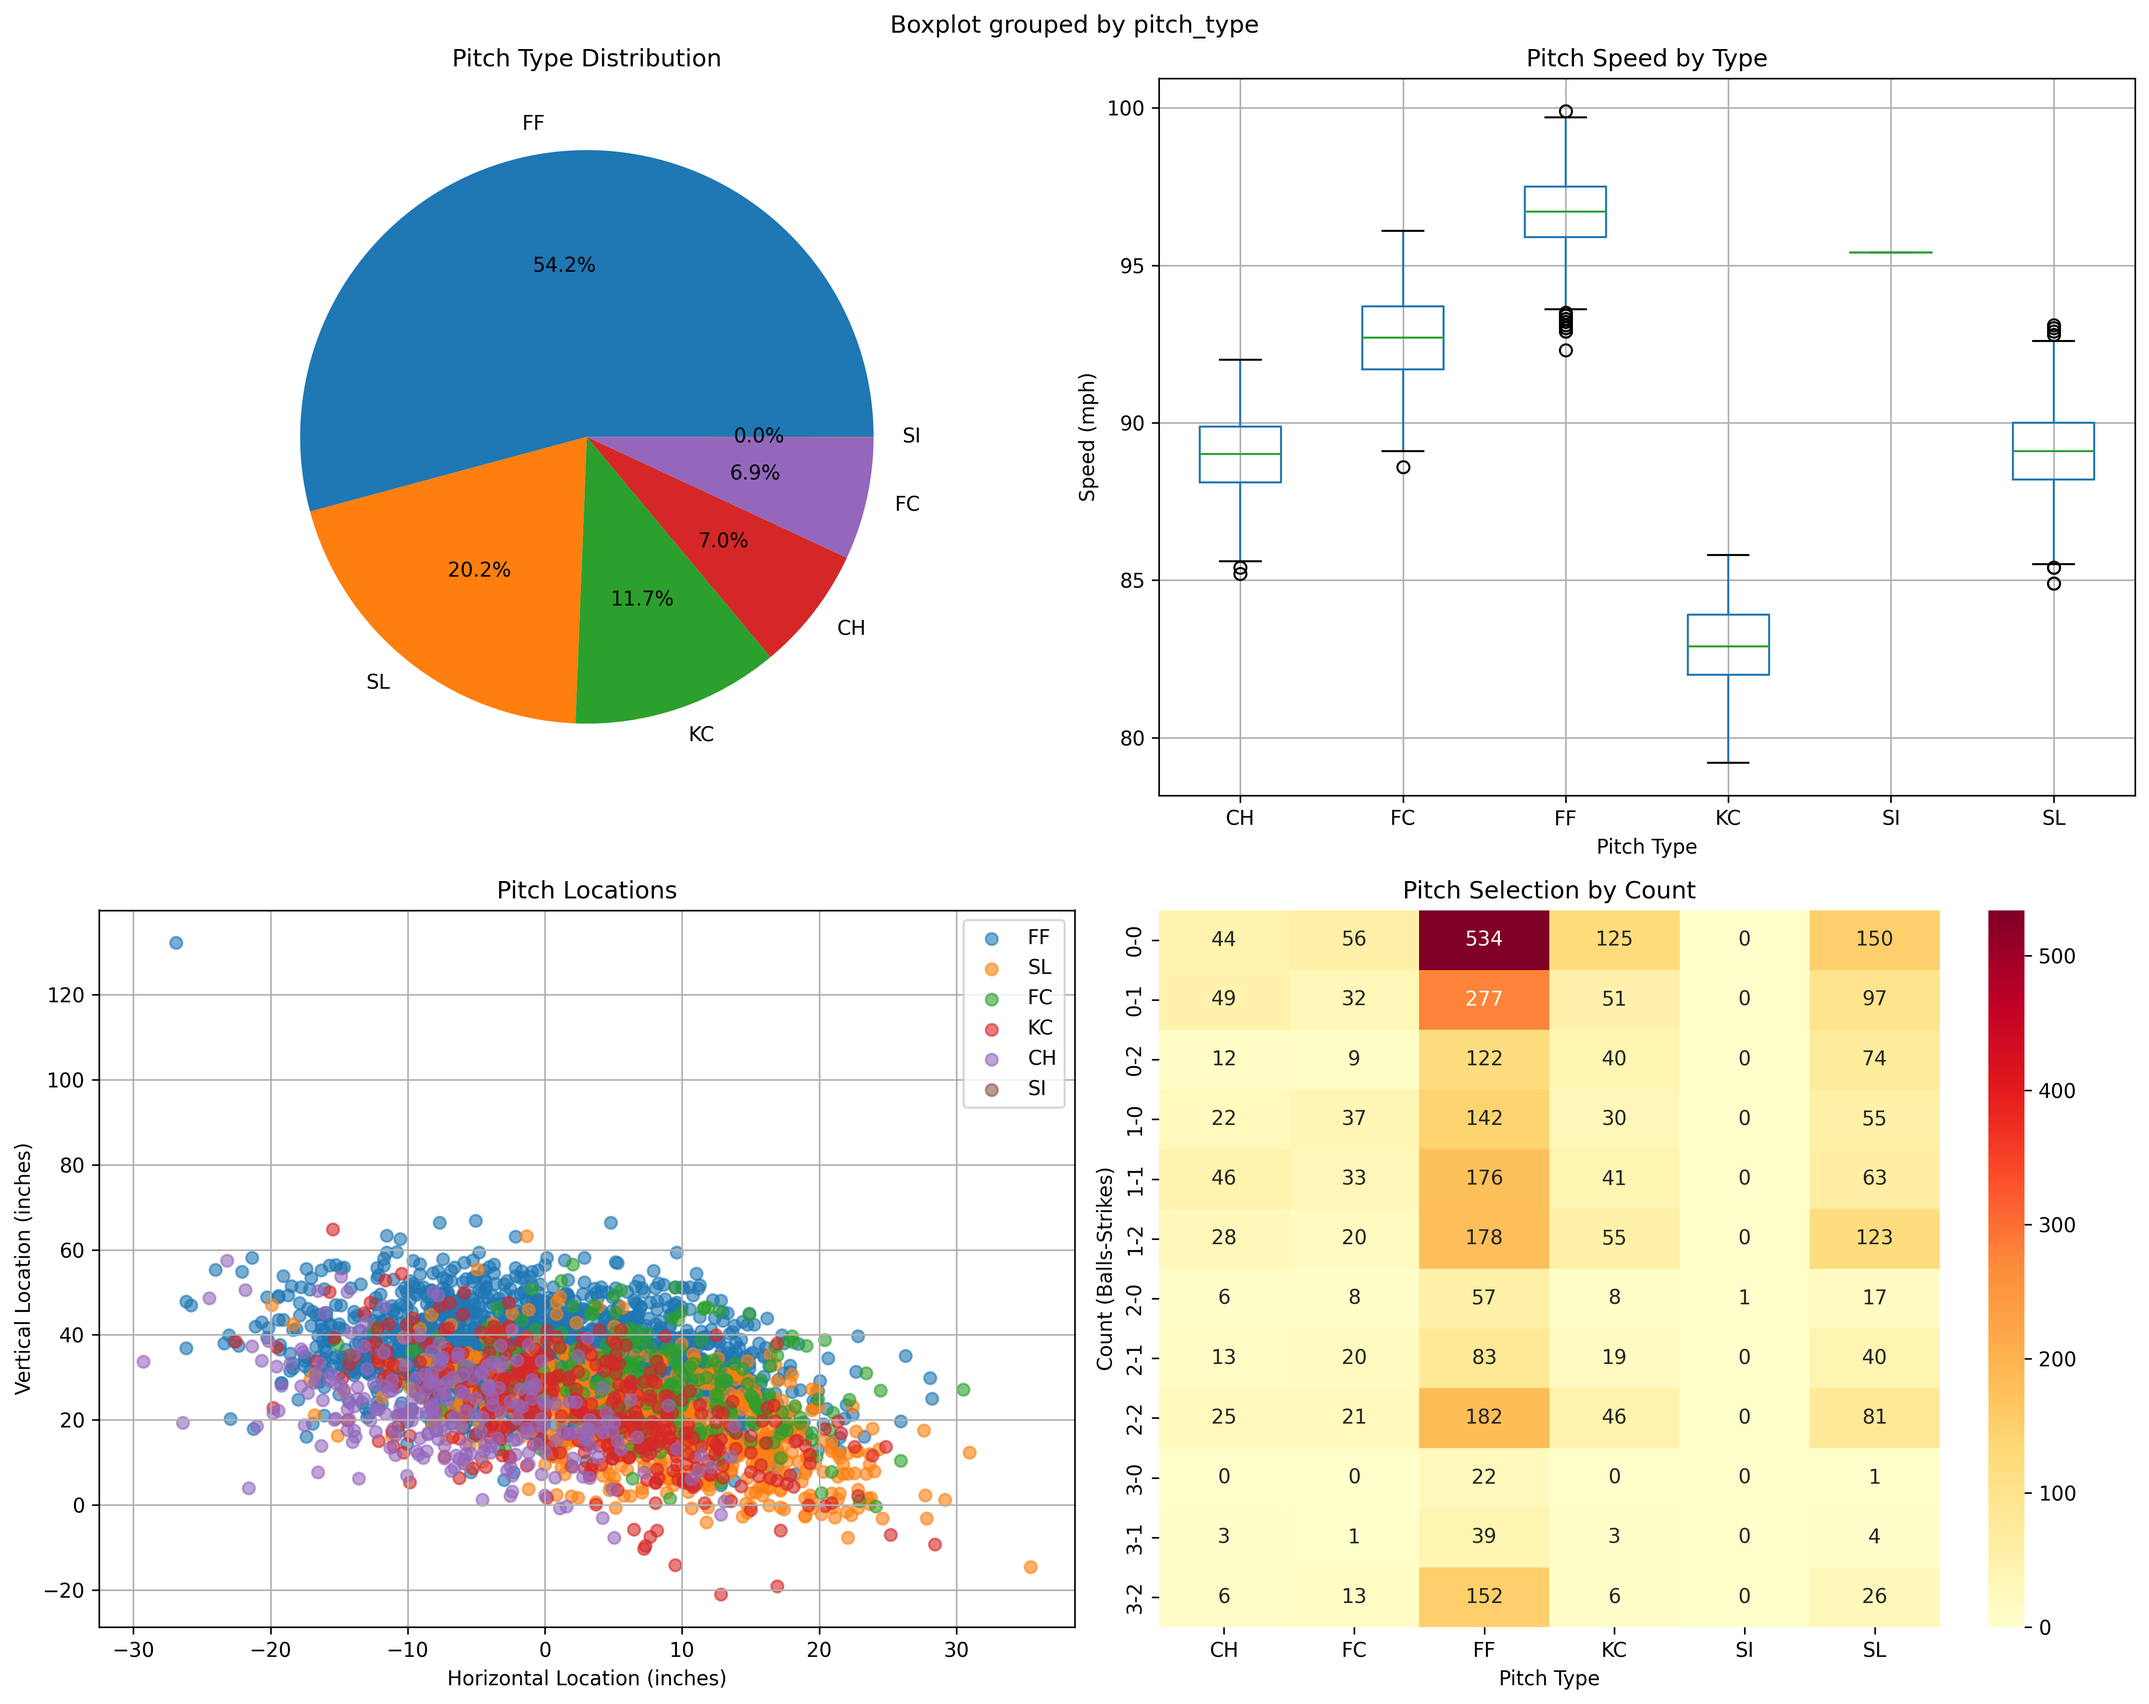
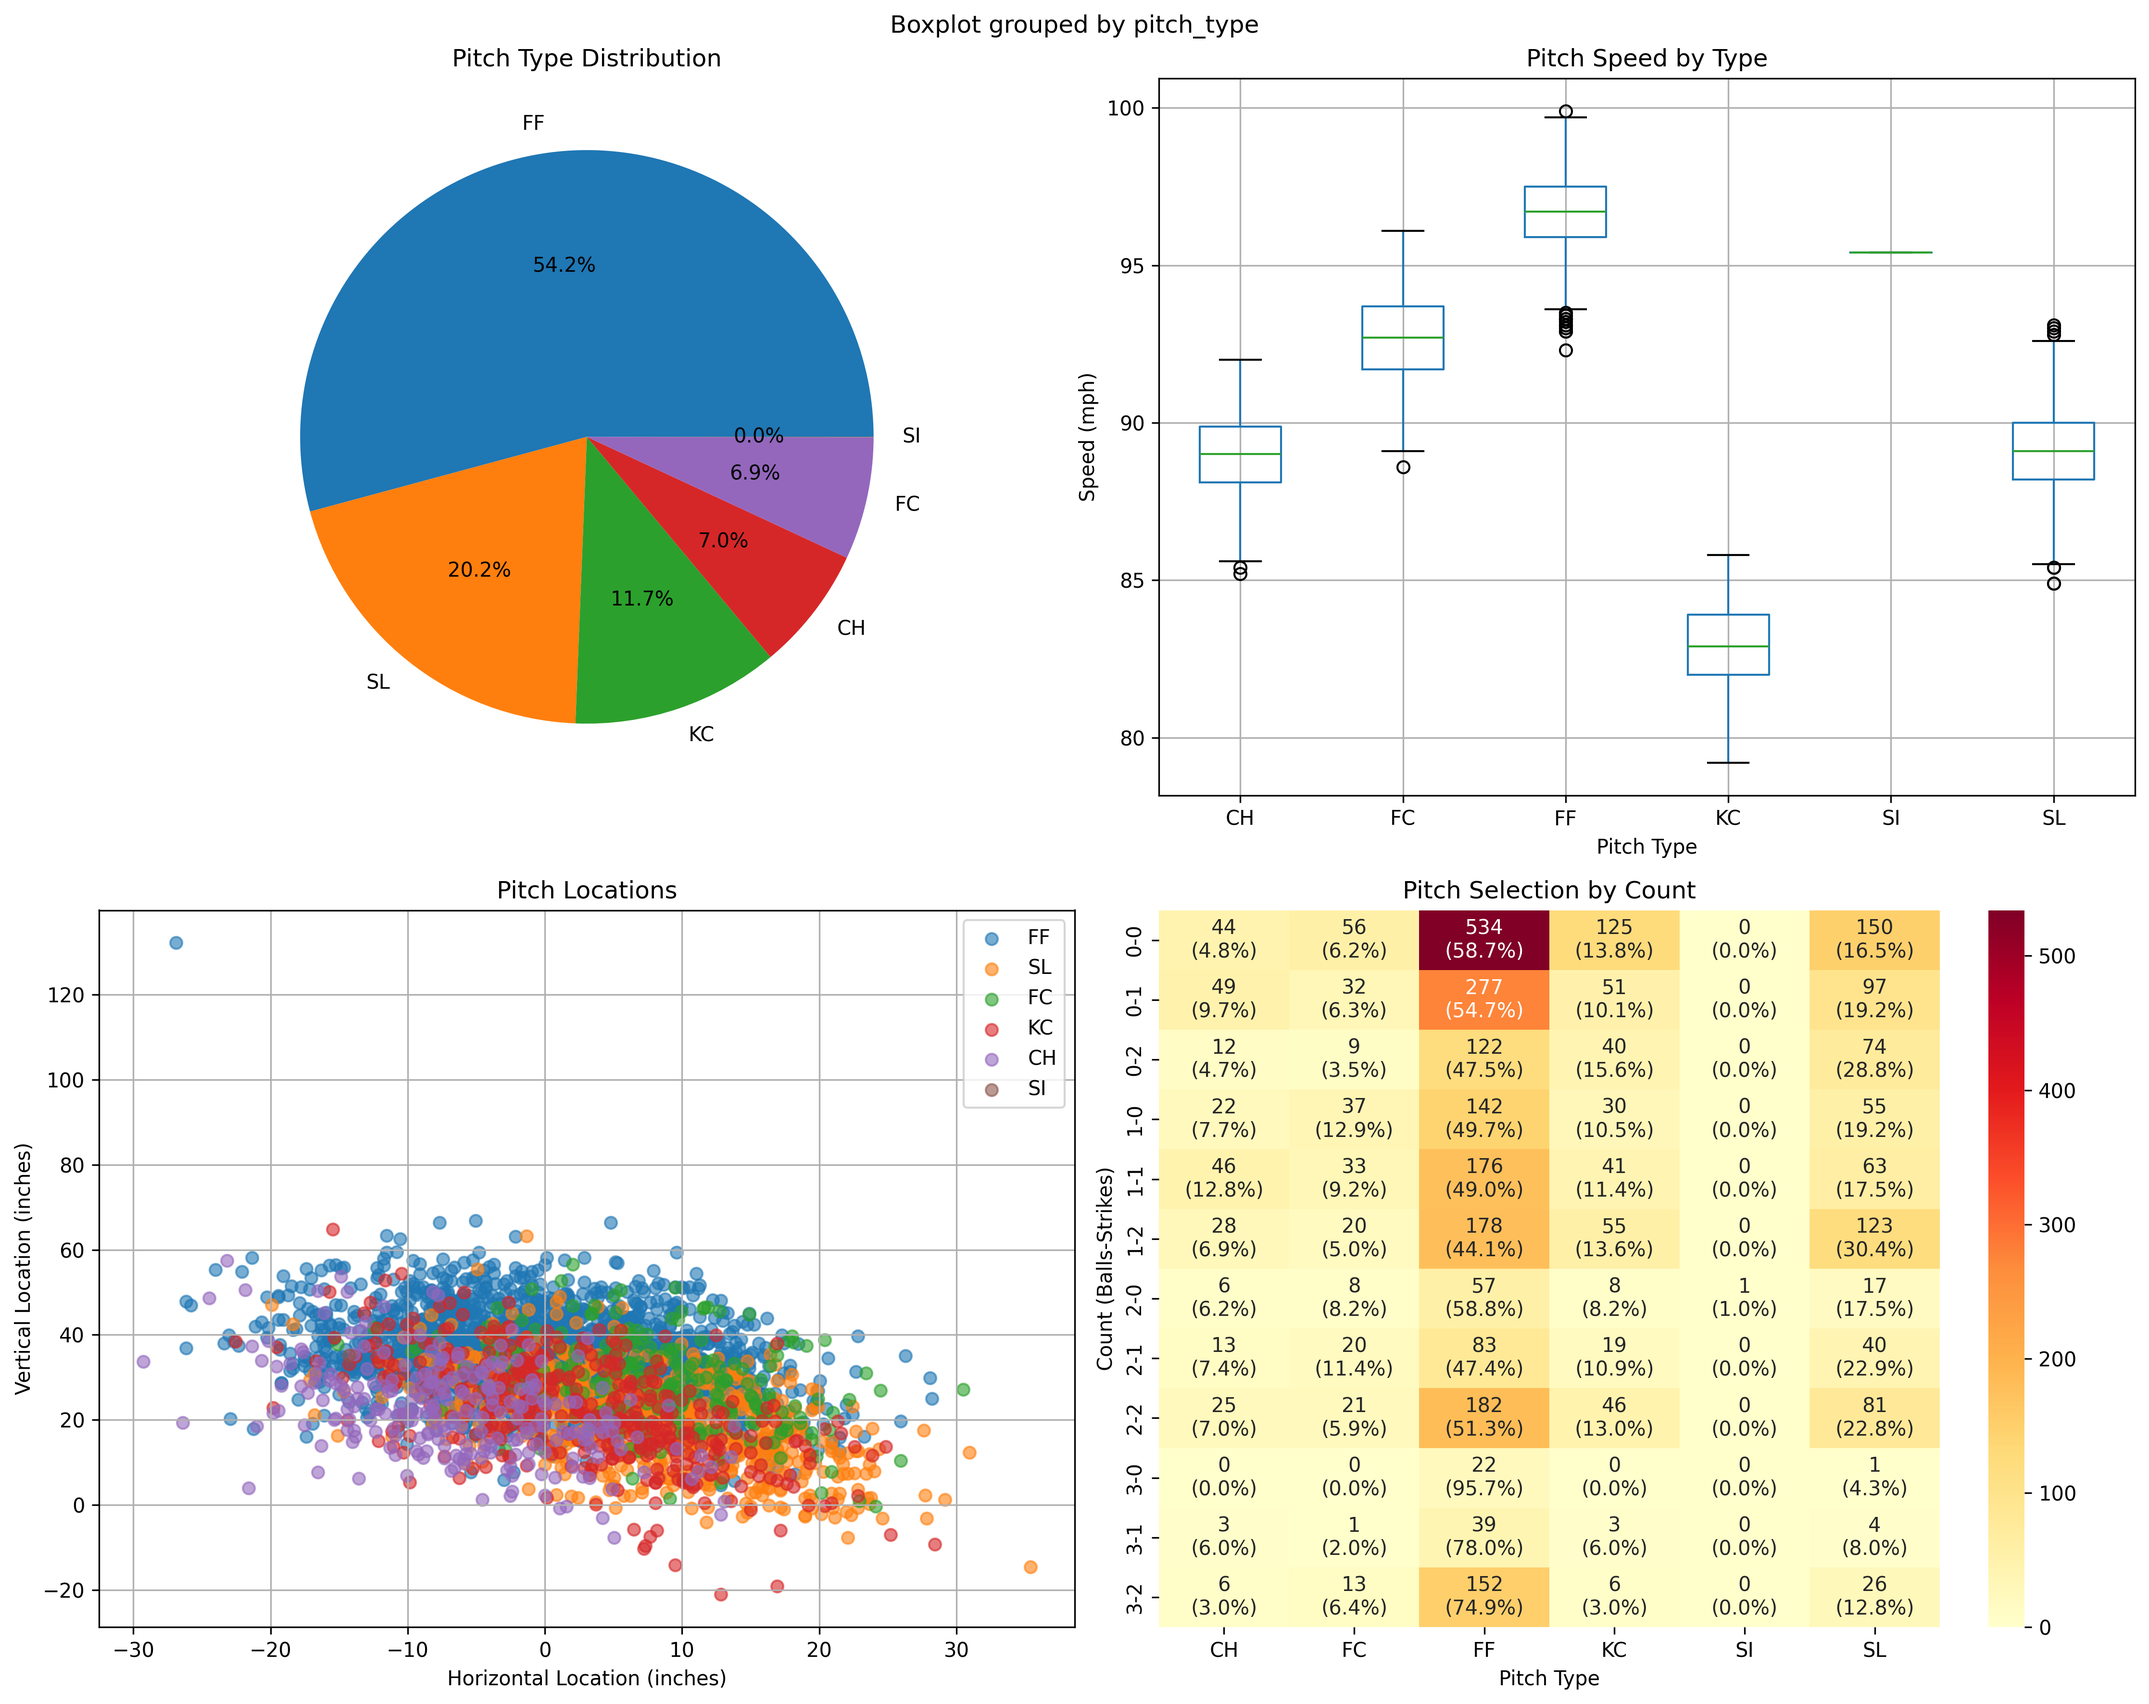
Ben's Branch Second Commit

diff --git a/pitch_selection.py b/pitch_selection.py
@@ -64,7 +64,7 @@ class PitchSelectionAnalyzer:
         data = self.pitcher_data[pitcher_name]
         
         # Filter out missing values
-        data = data.dropna(subset=['release_speed', 'release_spin_rate', 'pitch_type'])
+        data = data.dropna(subset=['release_speed', 'release_spin_rate', 'pitch_type', 'pfx_x', 'pfx_z'])
         
         pitch_characteristics = {}
         
@@ -77,6 +77,10 @@ class PitchSelectionAnalyzer:
                     'speed_std': pitch_data['release_speed'].std(),
                     'spin_mean': pitch_data['release_spin_rate'].mean(),
                     'spin_std': pitch_data['release_spin_rate'].std(),
+                    'pfx_x_mean': pitch_data['pfx_x'].mean(),
+                    'pfx_x_std': pitch_data['pfx_x'].std(),
+                    'pfx_z_mean': pitch_data['pfx_z'].mean(),
+                    'pfx_z_std': pitch_data['pfx_z'].std(),
                     'count': len(pitch_data)
                 }
                 pitch_characteristics[pitch_type] = characteristics
@@ -84,7 +88,8 @@ class PitchSelectionAnalyzer:
         print(f"\n=== Pitch Characteristics for {pitcher_name} ===")
         for pitch_type, stats in pitch_characteristics.items():
             print(f"{pitch_type}: Speed {stats['speed_mean']:.1f}±{stats['speed_std']:.1f} mph, "
-                  f"Spin {stats['spin_mean']:.0f}±{stats['spin_std']:.0f} rpm (n={stats['count']})")
+                  f"Spin {stats['spin_mean']:.0f}±{stats['spin_std']:.0f} rpm (n={stats['count']}), \nX-Movement: {stats['pfx_x_mean']:.2f}±{stats['pfx_x_std']:.2f} in, "
+                  f"Z-Movement: {stats['pfx_z_mean']:.2f}±{stats['pfx_z_std']:.2f} in")
         
         return pitch_characteristics
     
@@ -226,7 +231,9 @@ class PitchSelectionAnalyzer:
         
         # 4. Count-based pitch selection heatmap
         count_pitch_data = data.groupby(['balls', 'strikes', 'pitch_type']).size().unstack(fill_value=0)
-        sns.heatmap(count_pitch_data, annot=True, fmt='d', cmap='YlOrRd', ax=axes[1, 1])
+        count_pitch_percent = count_pitch_data.div(count_pitch_data.sum(axis=1), axis=0) * 100
+        annot = count_pitch_data.astype(str) + "\n(" + count_pitch_percent.round(1).astype(str) + "%)"
+        sns.heatmap(count_pitch_data, annot=annot, fmt='', cmap='YlOrRd', ax=axes[1, 1])
         axes[1, 1].set_title('Pitch Selection by Count')
         axes[1, 1].set_xlabel('Pitch Type')
         axes[1, 1].set_ylabel('Count (Balls-Strikes)')
